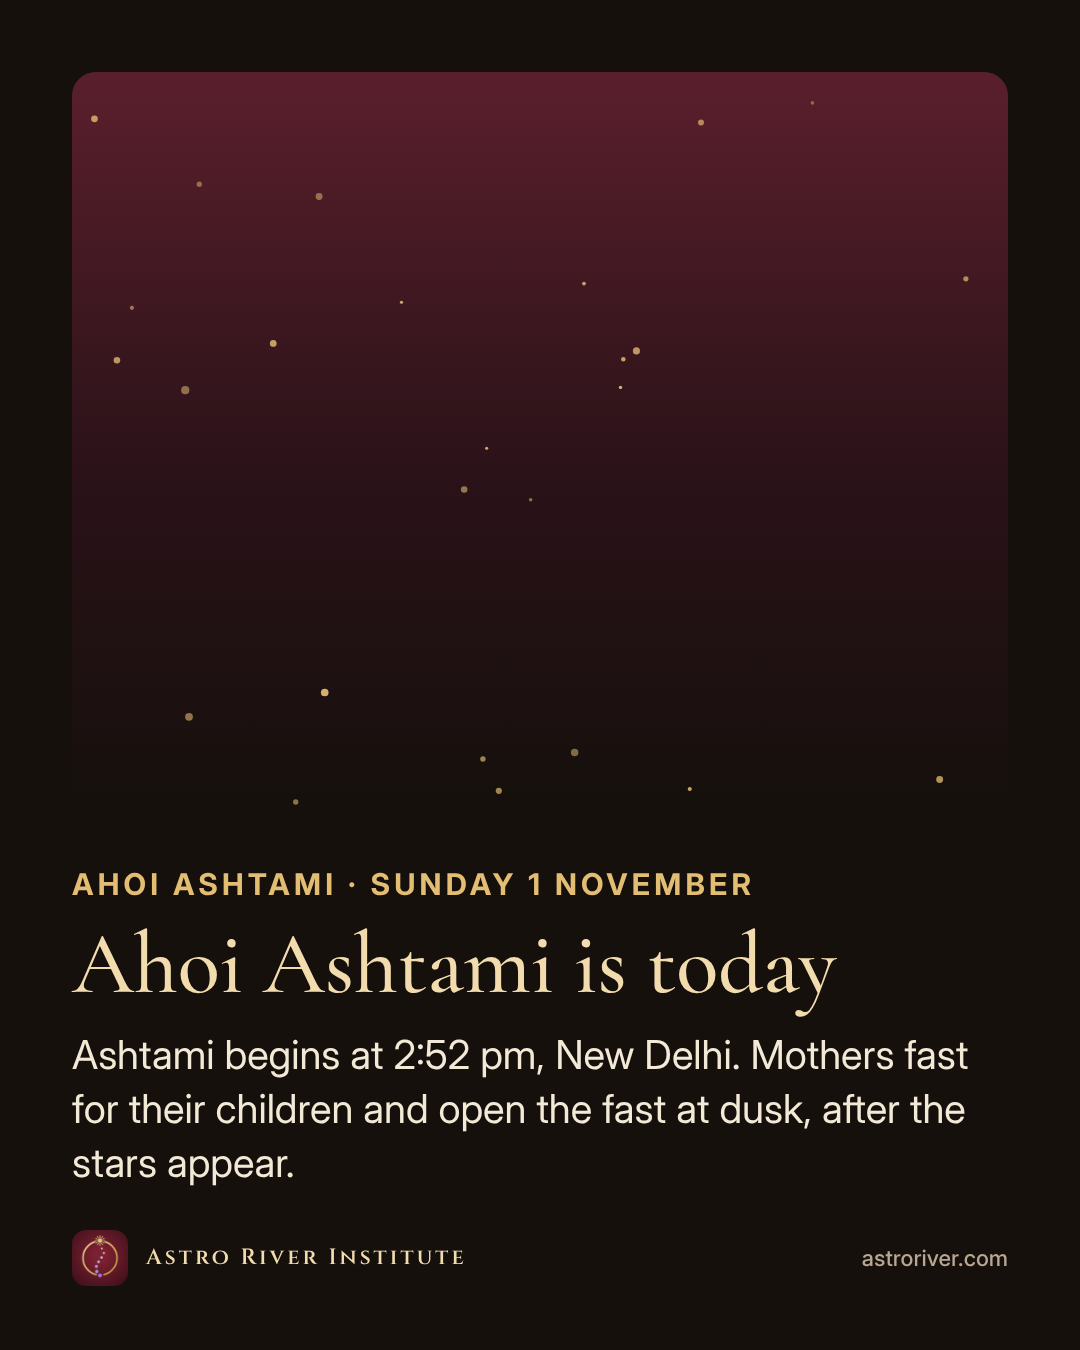
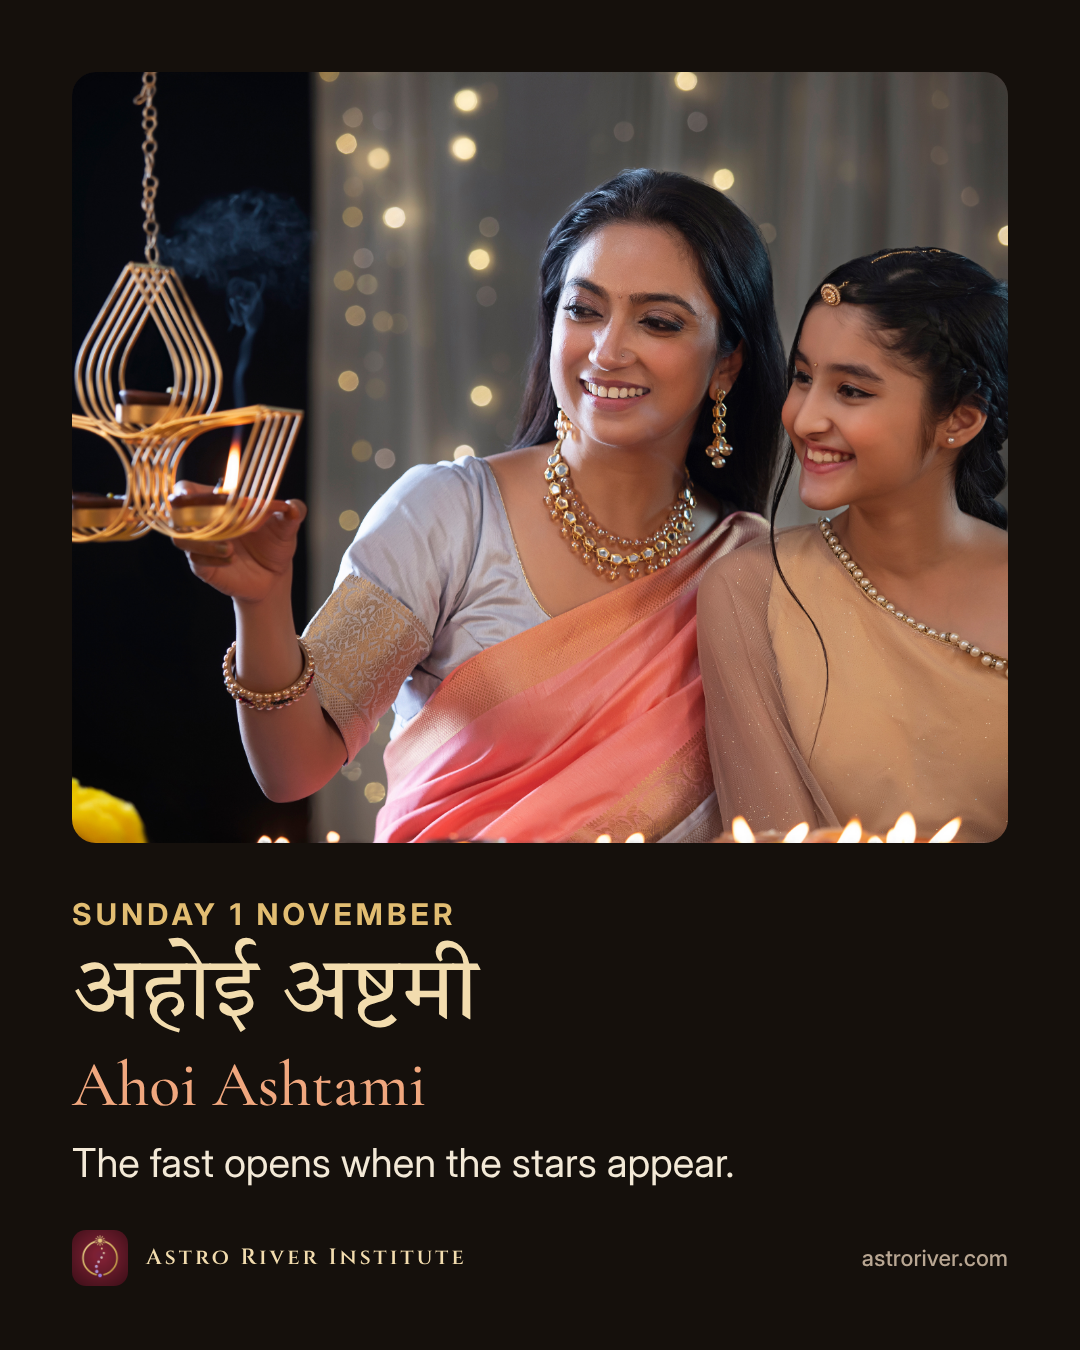
Draft: Ahoi Ashtami redo with licensed photo (feed, WhatsApp story)

diff --git a/build/templates/post.html b/build/templates/post.html
@@ -26,6 +26,8 @@ html,body{background:var(--bg)}
 .over{font:700 30px/1.3 "Inter";letter-spacing:.14em;text-transform:uppercase;color:var(--gold-text)}
 h1{font:500 88px/1.02 "Cormorant";color:var(--heading);margin-top:16px;letter-spacing:-.005em}
 h1 .dev{font-family:"Tiro",serif;font-size:.62em;color:var(--accent);margin-left:14px;letter-spacing:0}
+.hi{font:400 96px/1.1 "Tiro",serif;color:var(--heading);margin-top:14px}
+.en{font:500 64px/1.05 "Cormorant";color:var(--accent);margin-top:6px}
 .body{font:400 40px/1.35 "Inter";color:var(--text);margin-top:18px}
 .deadline{font:600 40px/1.35 "Inter";color:var(--accent);margin-top:18px}
 .rows{margin-top:24px;display:grid;grid-template-columns:max-content 1fr;column-gap:36px;row-gap:14px}
@@ -33,6 +35,7 @@ h1 .dev{font-family:"Tiro",serif;font-size:.62em;color:var(--accent);margin-left
 .rows div span{font:400 40px/1.25 "Inter";color:var(--muted);font-variant-numeric:tabular-nums;white-space:nowrap}
 .rows div b{font:600 40px/1.25 "Inter";color:var(--heading)}
 .square .txt{padding-top:40px}
+.story .art.cap{max-height:900px}.story .art.cap+.txt{margin-top:auto}
 /* the signature: crest + name + site, same place on every post of a format */
 .sig{position:absolute;left:72px;right:72px;display:flex;align-items:center;gap:18px}
 .feed .sig{bottom:64px}.square .sig{bottom:60px}.story .sig{bottom:250px}
@@ -59,10 +62,10 @@ const linework = t => `<svg viewBox="0 0 1000 1000" preserveAspectRatio="none" a
 const starPanel = () => { let x = 7, r = () => (x = (x * 9301 + 49297) % 233280) / 233280; const dots = Array.from({ length: 34 }, () => `<circle cx="${(r() * 1000).toFixed(0)}" cy="${(r() * 1000).toFixed(0)}" r="${(1.5 + r() * 3).toFixed(1)}" fill="#e2bd72" opacity="${(.45 + r() * .5).toFixed(2)}"/>`).join('');
   return `<div style="position:absolute;inset:0;background:linear-gradient(180deg,#5a1f2c 0%,#2a1218 55%,#15100c 100%)"></div><svg viewBox="0 0 1000 1000" preserveAspectRatio="xMidYMid slice" aria-hidden="true">${dots}</svg>`; };
 document.getElementById('post').outerHTML = `<div class="post ${fmt}">
-  <div class="art">${d.art === 'stars' ? starPanel() : `<img src="art/${d.art}" style="object-position:${d.pos || '50% 40%'}" alt="">`}${d.transit ? linework(d.transit) : ''}</div>
+  <div class="art${d.cap ? ' cap' : ''}">${d.art === 'stars' ? starPanel() : `<img src="art/${d.art}" style="object-position:${(fmt === 'story' && d.posStory) || d.pos || '50% 40%'}" alt="">`}${d.transit ? linework(d.transit) : ''}</div>
   <div class="txt">
     <div class="over">${d.over}</div>
-    <h1>${d.h}${d.hHi ? `<span class="dev">${d.hHi}</span>` : ''}</h1>
+    ${d.hiHead ? `<h1 class="hi" style="font:400 96px/1.1 Tiro,serif;margin-top:14px;letter-spacing:0">${d.hiHead}</h1><div class="en">${d.h}</div>` : `<h1>${d.h}${d.hHi ? `<span class="dev">${d.hHi}</span>` : ''}</h1>`}
     ${d.body ? `<p class="body">${d.body}</p>` : ''}
     ${d.rows ? `<div class="rows">${d.rows.map(([a, b]) => `<div><span>${a}</span><b>${b}</b></div>`).join('')}</div>` : ''}
     ${d.deadline ? `<p class="deadline">${d.deadline}</p>` : ''}

diff --git a/posts/drafts/2026-11-01-ahoi-ashtami/captions.md b/posts/drafts/2026-11-01-ahoi-ashtami/captions.md
@@ -26,5 +26,6 @@ Are you fasting today? Tell us in the comments who you keep it for.
 English: Ahoi Ashtami is today. Ashtami begins at 2:52 pm (New Delhi); mothers open the fast in the evening, after the stars appear. astroriver.com/panchang
 Hindi: आज अहोई अष्टमी है। अष्टमी दोपहर 2:52 बजे से (नई दिल्ली); तारे दिखने पर माताएँ व्रत खोलती हैं। astroriver.com/panchang
 
-## Picture
-No approved painting fits and is free of the 7-day rule (karwa 29 Oct, night-sky 31 Oct, lakshmi/diwali pictures in the Oct 31 to Nov 8 posts). The draft uses a plain maroon dusk with gold stars (no picture). If the founder wants a painting: see the prompt in the report.
+
+## Picture credit
+Adobe Stock 392003633 (licensed from K15 session). The full-size original is kept out of git; only the finished graphics are committed.
